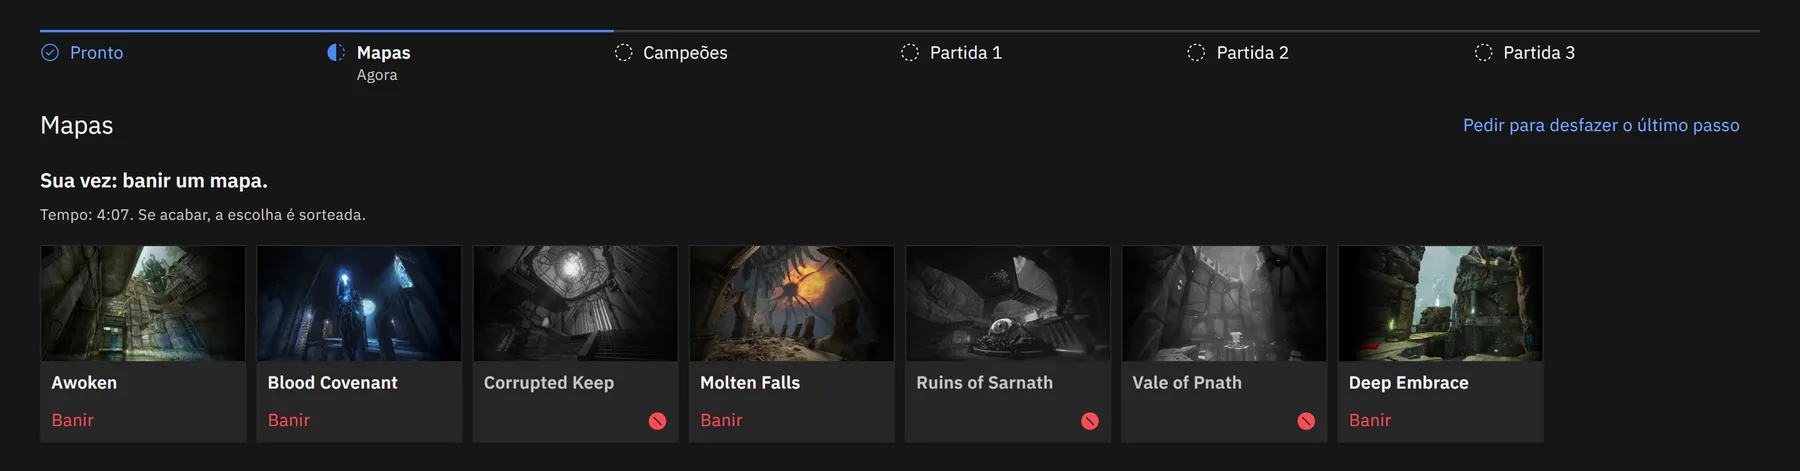
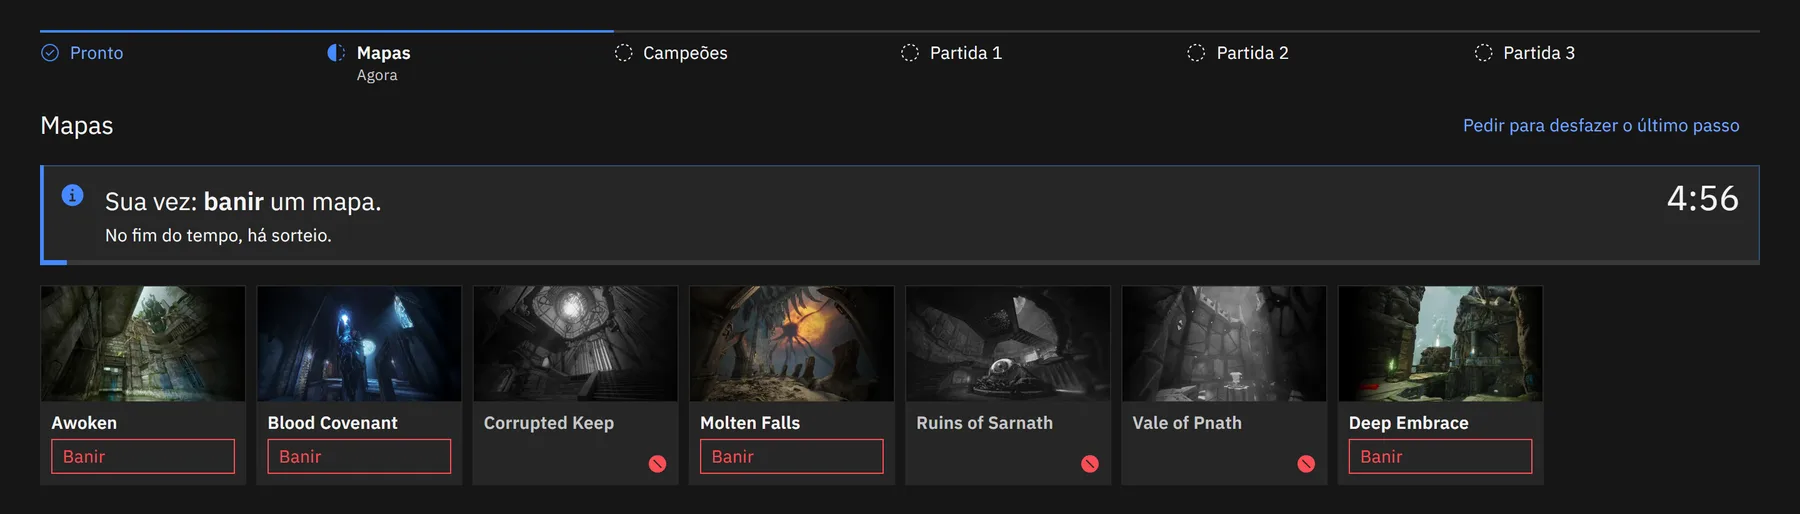
landing: a Champions tab shows the draft, the veto shot is up to date
The tour only had a picture of the map veto, under a tab that talked about
maps and champions at once. The draft now has its own tab, with a capture of
a series in the middle of it: portraits, bans, the picks so far and whose
turn it is. In Portuguese and Spanish, light and dark.

The old "Veto e draft" tab becomes "Mapas" and talks only about maps. Both
names match the steps on the match page. The new text says what the veto
decisions say: bans count for both sides in every game, each player picks a
champion per game (in teams too), and the tournament sets the number of bans
and what may repeat.

The veto captures are retaken, since the turn bar and the tile's action
changed. Bracket and result came out byte for byte the same; ranking differed
only in the date of the last game. Those stay.

The draft capture is 130 KB against 30 to 60 for the others, because of the
portraits. It only downloads when its tab opens.

diff --git a/web/src/features/landing/components/landing-tour.tsx b/web/src/features/landing/components/landing-tour.tsx
@@ -7,7 +7,7 @@ import { TourPanel } from "./tour-panel";
 import { TourTabs } from "./tour-tabs";
 
 const TITLE_ID = "landing-tour";
-const PARTS = ["veto", "result", "ranking"] as const;
+const PARTS = ["veto", "draft", "result", "ranking"] as const;
 
 /** O que acontece numa série e depois dela, em abas com a captura de cada parte. */
 export async function LandingTour() {

diff --git a/web/src/features/landing/components/tour-panel.tsx b/web/src/features/landing/components/tour-panel.tsx
@@ -4,7 +4,7 @@ import { getTranslations } from "next-intl/server";
 import { ProductShot } from "./product-shot";
 import styles from "./tour-panel.module.scss";
 
-type Props = { part: "veto" | "result" | "ranking" };
+type Props = { part: "veto" | "draft" | "result" | "ranking" };
 
 /**
  * Uma aba do tour: o texto e a captura, lado a lado a partir do xlg. Antes,

diff --git a/web/src/features/landing/components/tour-tabs.tsx b/web/src/features/landing/components/tour-tabs.tsx
@@ -15,7 +15,7 @@ type Props = {
 
 /**
  * As partes do site em abas, uma captura por vez, como a segunda faixa do
- * tutorial do Carbon: a página não desce três capturas uma embaixo da outra.
+ * tutorial do Carbon: a página não desce as capturas uma embaixo da outra.
  */
 export function TourTabs({ label, tabs }: Props) {
   return (

diff --git a/web/src/features/landing/components/product-shot.tsx b/web/src/features/landing/components/product-shot.tsx
@@ -11,7 +11,8 @@ import styles from "./product-shot.module.scss";
  */
 const SHOTS = {
   bracket: { width: 1800, height: 1051 },
-  veto: { width: 1800, height: 471 },
+  veto: { width: 1800, height: 514 },
+  draft: { width: 1800, height: 1029 },
   result: { width: 1800, height: 810 },
   ranking: { width: 1800, height: 943 },
 };

diff --git a/docs/decisions/interface.md b/docs/decisions/interface.md
@@ -44,7 +44,7 @@ O alvo página a página está em `docs/design.md`; o guia de código e as regra
 
 ## Home e páginas de uso
 
-- **Apresentação para quem não entrou** (pedida pelo usuário em 31/10, que confere antes de integrar): `/` sem cookie de sessão é uma página estática (`app/[locale]/(home)`) que diz o que o site faz, para quem organiza (o jogador chega pelo convite, que leva direto ao cadastro). O proxy escolhe pelo cookie: com ele, reescreve `/` para `/me`, o início de quem entrou; `/me` aberto direto volta para `/`. Assim a apresentação sai pronta sem esperar a API nem mostrar esqueleto, e o endereço é o mesmo para os dois. Ao contrário (início de quem entrou em `/` e a apresentação por reescrita), o `usePathname` da página estática leria o caminho reescrito e o "Entrar" do cabeçalho voltaria para a apresentação depois do login. Cookie de sessão vencida cai em `/me`, que convida a entrar de novo. "Criar conta" é o primário (antes era "Entrar"), à esquerda como o Carbon pede em página inteira, e leva a "Nova comunidade" depois do cadastro: sem sessão na raiz, quase sempre é alguém novo, e "Entrar" continua no cabeçalho. No Carbon, é o "momento expressivo" de página inicial (títulos `fluid-*` fora de caixas) e o desenho da landing page do tutorial do Carbon (faixas de parede a parede, seção de informação com colunas separadas por linha, abas com texto e imagem); sem pictogramas, pela regra de não enfeitar. Nada de números, depoimentos, preço nem torneios abertos (tudo é só para membros), e FFA fica de fora até existir. As capturas (`public/landing/<parte>-<idioma>-<tema>.webp`, de 30 a 60 KB cada) vão nas duas versões de tema na página e o CSS mostra a do tema; a escondida não baixa (`loading="lazy"`). Saem de um script local que monta uma comunidade de vitrine e recorta cada seção.
+- **Apresentação para quem não entrou** (pedida pelo usuário em 31/10, que confere antes de integrar): `/` sem cookie de sessão é uma página estática (`app/[locale]/(home)`) que diz o que o site faz, para quem organiza (o jogador chega pelo convite, que leva direto ao cadastro). O proxy escolhe pelo cookie: com ele, reescreve `/` para `/me`, o início de quem entrou; `/me` aberto direto volta para `/`. Assim a apresentação sai pronta sem esperar a API nem mostrar esqueleto, e o endereço é o mesmo para os dois. Ao contrário (início de quem entrou em `/` e a apresentação por reescrita), o `usePathname` da página estática leria o caminho reescrito e o "Entrar" do cabeçalho voltaria para a apresentação depois do login. Cookie de sessão vencida cai em `/me`, que convida a entrar de novo. "Criar conta" é o primário (antes era "Entrar"), à esquerda como o Carbon pede em página inteira, e leva a "Nova comunidade" depois do cadastro: sem sessão na raiz, quase sempre é alguém novo, e "Entrar" continua no cabeçalho. No Carbon, é o "momento expressivo" de página inicial (títulos `fluid-*` fora de caixas) e o desenho da landing page do tutorial do Carbon (faixas de parede a parede, seção de informação com colunas separadas por linha, abas com texto e imagem); sem pictogramas, pela regra de não enfeitar. Nada de números, depoimentos, preço nem torneios abertos (tudo é só para membros), e FFA fica de fora até existir. As capturas (`public/landing/<parte>-<idioma>-<tema>.webp`, de 30 a 60 KB cada; a do draft, com os retratos, 130 KB) vão nas duas versões de tema na página e o CSS mostra a do tema; a escondida não baixa (`loading="lazy"`). Saem de um script local que monta uma comunidade de vitrine e recorta cada seção.
 - **Home de quem entrou** (`/me`, revista em 03/11 a pedido do usuário, "como a IBM faria"): uma tela de trabalho, na ordem do que pede atenção: o título "Início", sem a frase do que o site faz (do usuário, 01/11: "Torneios de Quake Champions" ali só repetia para quem já usa o que a apresentação diz a quem chega); na coluna principal "Esperando você", "Seus torneios" e "Inscrições abertas"; na lateral (`PageColumns`, 11 e 5 das 16 colunas, porque comunidade é atalho e não deve empurrar o resto para baixo) "Suas comunidades", com "Criar comunidade" depois da lista, discreto (quase nenhum jogador usa, e o painel do cabeçalho também o tem). Tudo em 2ª pessoa, como o resto do site: "Minhas comunidades" era o único ponto em 1ª. O status da API só aparece quando há problema.
 - **Esperando você**: o que só anda se quem vê agir, em todas as comunidades, um por linha (`ActionTile`, o `Tile` não interativo com botão, que é o que o Carbon pede para tile com ação). Primeiro as ações de quem joga (veto, "Pronto", confirmar ou contestar, enviar, check-in: nessa ordem, do prazo mais curto ao mais longo), depois as da organização (abaixo). Une as duas listas porque a pessoa quer uma lista só do que fazer, e a ação de quem joga, antes um negrito no rodapé do tile, era o motivo de abrir a home. Sem etiqueta: o botão diz a tarefa e o título diz onde. O logo da comunidade na frente de cada linha quando alguma tem; a capa não, porque numa linha baixa ficaria pequena demais para reconhecer (como no `DataTable`). O **check-in** se faz ali mesmo: é um clique e se desfaz; o resto leva à página da série ou à aba Organização. Nada esperando, o bloco some.
 - **Seus torneios** (`GET /me/tournaments`, `registered`): os torneios em que a pessoa está inscrita, de todas as comunidades, com a **situação** dela (inscrição feita, check-in pendente/feito, fora da chave sem check-in, na chave, terminou em Nº, desistiu, 1º lugar) e, para quem ainda joga, a **próxima partida** com o adversário (ou "quem vencer C1.2") e o que ela espera (enviar, confirmar/contestar, aguardar). A ordem é a da situação de quem vê, feita no front: o que espera por ele, em jogo, depois o que só espera a data (a ordem da API, pelo estado do torneio, punha "Terminou em 5º–8º" no canto mais lido da tela). Num bloco fechado, **"Participações encerradas"**: os encerrados, só os 5 de início mais recente (cada um refaz a chave para dar a colocação; a lista inteira cresceria sem fim), e aqueles em que a participação acabou com o torneio em andamento. O tile é só o link do torneio, sem o rodapé com o link da série (o caminho curto está em "Esperando você"), e assim toda a grade tem a mesma forma. O metadado muda com o momento: o início antes da chave, a próxima série em jogo. Sem nenhum torneio, o estado vazio só aparece se também não há "Inscrições abertas", que já dizem o que fazer. Confirmações por tempo vencidas valem antes, como ao abrir a chave.

diff --git a/docs/design.md b/docs/design.md
@@ -38,7 +38,7 @@ Têm página própria: **pessoa na comunidade**, **ordem da chave**, **chave** e
 
 ### Início `/`
 
-- Sem sessão, a **apresentação** (estática), em faixas de parede a parede que alternam o fundo e a camada: abertura com o título expressivo (`fluid-heading-05`), uma frase, "Criar conta" (primário, leva à criação da comunidade depois do cadastro) e "Entrar", a frase do convite e a captura da chave; "Como funciona" em três passos; "Do veto ao ranking" em abas (veto e draft, resultado, ranking), texto e captura; "Para quem organiza" em quatro colunas; e "Criar conta" de novo no fim. As capturas são do próprio site, por idioma e por tema.
+- Sem sessão, a **apresentação** (estática), em faixas de parede a parede que alternam o fundo e a camada: abertura com o título expressivo (`fluid-heading-05`), uma frase, "Criar conta" (primário, leva à criação da comunidade depois do cadastro) e "Entrar", a frase do convite e a captura da chave; "Como funciona" em três passos; "Do veto ao ranking" em abas (mapas, campeões, resultado, ranking), texto e captura; "Para quem organiza" em quatro colunas; e "Criar conta" de novo no fim. As capturas são do próprio site, por idioma e por tema.
 - Com sessão (`/me`, servido em `/`): o título "Início", sem frase, e duas colunas (`PageColumns`; abaixo do `lg`, uma embaixo da outra). Na principal: "Esperando você" (some sem nada: um por linha, com o logo quando alguma tem, o torneio, a comunidade, o que é e o botão; primeiro as ações de quem joga, com o check-in feito ali mesmo, depois as da organização); "Seus torneios" (tiles: a capa no topo quando a grade tem alguma, nome, comunidade, o início ou a próxima série com o próximo mapa, e a etiqueta do que a série espera ou da situação; do que espera por quem vê ao que só espera a data; numa `Accordion` fechada, "Participações encerradas"); e "Inscrições abertas" (tiles com a capa: nome, comunidade, início, formato e vagas; some sem nada). Na lateral: "Suas comunidades" (o logo antes do nome quando alguma tem) e, depois da lista, "Criar comunidade" discreto. Sem comunidade nenhuma, só o estado vazio com "Criar comunidade", na principal.
 
 ### Entrar `/login`, Criar conta `/signup`, links por email
